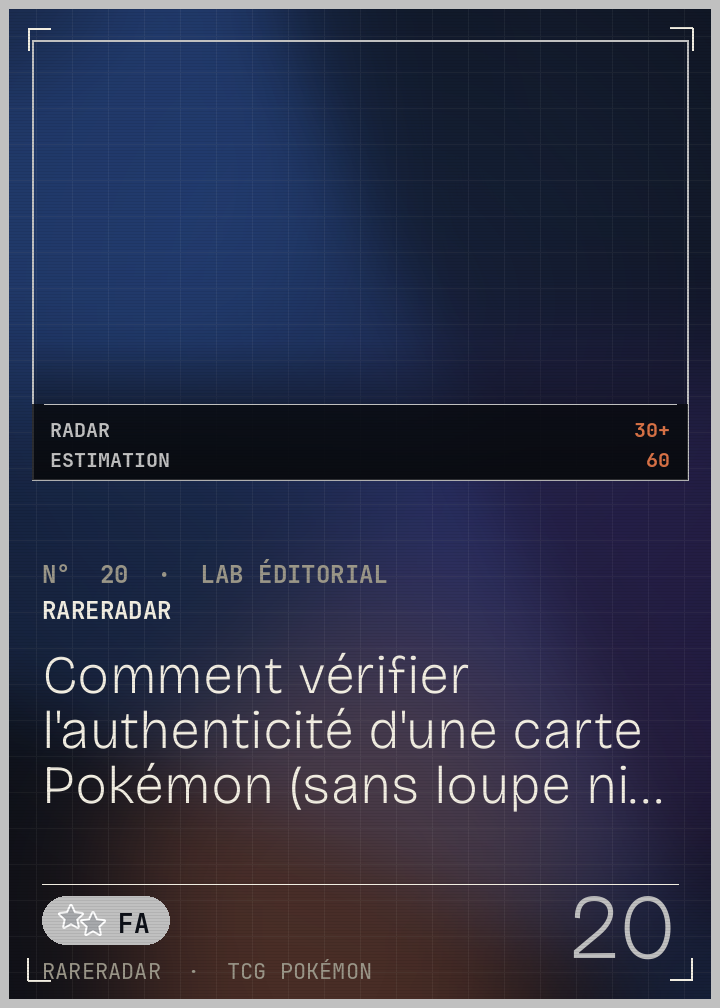
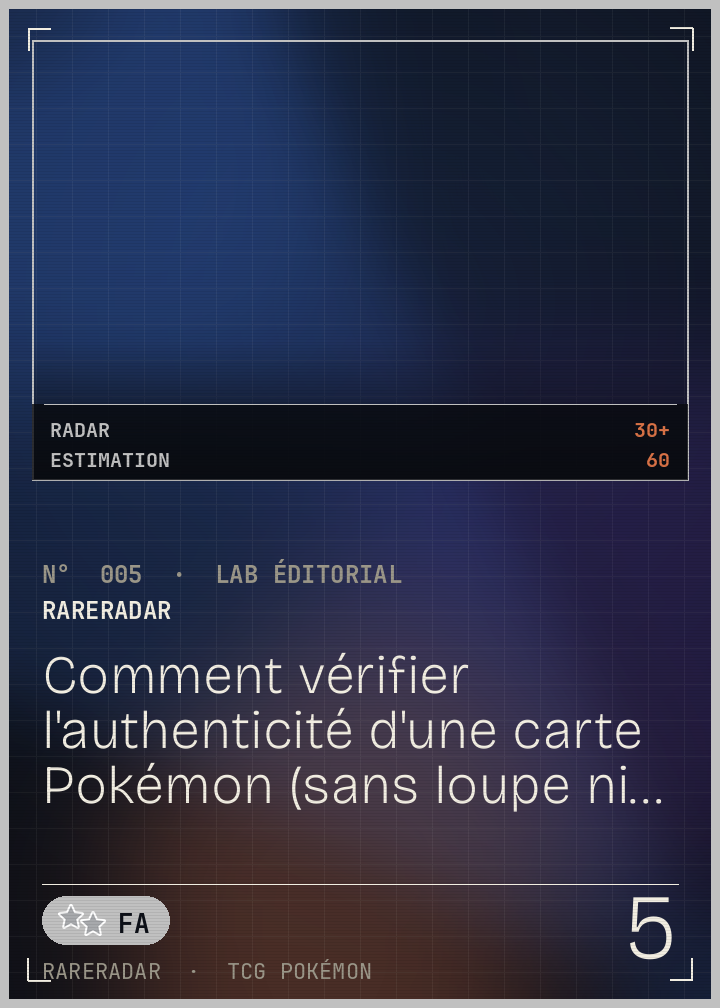
rareradar: N° d'article = champ n: (fin des doublons de numérotation)
Le N° affiché était recalculé depuis le rang par date dans site.posts :
chaque publication d'un brouillon daté du passé renumérotait les articles
existants. post.html lit désormais page.n (repli sur le rang si absent).

Régénère aussi la cover v2 (og:image) de « Vérifier l'authenticité »,
qui portait N° 20 au lieu de N° 005.

diff --git a/_layouts/post.html b/_layouts/post.html
@@ -5,12 +5,16 @@ layout: default
 <article class="article" data-rarity="{{ page.rarity | default: 'common' }}">
   <div class="shell">
 
-    {%- assign article_number = 0 -%}
-    {%- for p in site.posts -%}
-      {%- if p.url == page.url -%}
-        {%- assign article_number = site.posts.size | minus: forloop.index | plus: 1 -%}
-      {%- endif -%}
-    {%- endfor -%}
+    {%- comment -%} Numéro = champ `n:` du front matter (source unique, stable à la
+        publication). Repli sur le rang chronologique si `n` est absent. {%- endcomment -%}
+    {%- assign article_number = page.n | default: 0 -%}
+    {%- if article_number == 0 -%}
+      {%- for p in site.posts -%}
+        {%- if p.url == page.url -%}
+          {%- assign article_number = site.posts.size | minus: forloop.index | plus: 1 -%}
+        {%- endif -%}
+      {%- endfor -%}
+    {%- endif -%}
     {%- assign article_number_padded = article_number | prepend: '00' | slice: -3, 3 -%}
 
     {%- comment -%} Mapping rareté → 5 tiers couleur (cohérent avec article-card) {%- endcomment -%}
